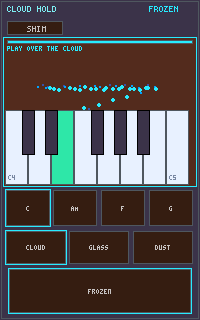
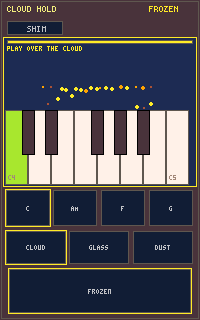
cloudhold: a granular pedal that was not granular
Three things were wrong, each of which made the cart read as broken while
every existing check stayed green.

1. The FREEZE stomp was inaudible. At mix 0.92 the insert had already
   replaced 92% of the dry triad before the stomp, so "the dry chord drops
   away" could not be heard: frozen and never-frozen stayed within 1.3 dB
   for 0.8 s and only parted 1.6 s later, as an absence. The screen flipped
   instantly and the ears heard nothing. Mix is now around 0.5, the stomp
   ducks both legs of the pad and blooms back, and the step at the switch
   went from +0.2 dB to -8.4 dB. The duck has to scale the voice level AND
   the grain mix together: instrument_level is upstream of the insert so it
   cannot touch a frozen cloud at all, and ducking mix alone just trades wet
   for dry against a 1200 ms release, which made the stomp 1.8 dB LOUDER.

2. You could not hear grains, because there were none. Density times grain
   size is the overlap, and above 1 the Hann windows sum back into a
   continuous tone, after which the engine divides by sqrt(overlap) and
   smooths what is left. CLOUD shipped at 32 grains/s x 170 ms = 5.44x, so
   it was a saw pad behind a lowpass by construction. Measured duty cycle
   of the frozen cloud: 94% sounding at the shipped overlap, 13% at 0.18.
   All three materials are now under 1. Scatter and position turn out to be
   nearly inaudible on a held chord (the buffer holds one steady tone, so
[…]

diff --git a/tools/carts/cloudhold.c b/tools/carts/cloudhold.c
@@ -50,6 +50,13 @@ de:meta */
 #define DESIGN_W 200
 #define DESIGN_H 320
 
+// The lead has to sit ON TOP of the room it plays over. It used to peak 6 dB
+// UNDER the frozen cloud (-15.3 vs -9.3 dBFS), so playing the keybed added only
+// about 1 dB to the sum and "play over the cloud" never landed. Both slots stay
+// at UNITY and the balance comes from the one honest knob: once the chord is
+// released the frozen cloud is pure wet, so the grain MIX *is* its volume.
+#define LEAD_LEVEL 1.00f
+
 enum { MAT_CLOUD = 0, MAT_GLASS, MAT_DUST };
 
 typedef struct {
@@ -60,10 +67,54 @@ typedef struct {
 //   CLOUD — mid grains, dense wet wash (the default room)
 //   GLASS — tiny grains, high density, sparkle detune
 //   DUST  — long grains, sparse, wide pitch wander
+//
+// MIX IS THE WHOLE GESTURE, and it used to be wrong. At 0.92 the insert had
+// already replaced 92% of the dry triad BEFORE the stomp, so "the dry chord
+// drops away" was inaudible: measured, frozen and never-frozen stayed within
+// ±1.3 dB for 0.8 s and only parted ~1.6 s later, as an ABSENCE (the un-frozen
+// one decays, this one doesn't). The screen flipped instantly and the ears
+// heard nothing, which reads as broken.
+//
+// Around half the dry chord is genuinely in the room while LIVE, so taking it
+// away IS the event, and the saw edge leaving is as loud a cue as the level
+// step. Mix doubles as the frozen cloud's volume (post-release it is pure wet),
+// which is what seats the lead above it.
+//
+// DENSITY x SIZE IS THE OVERLAP, and the overlap is whether you hear GRAINS at
+// all. Above 1 the Hann windows sum back into a continuous tone and the engine
+// then divides by sqrt(overlap), so it deliberately smooths what is left: at
+// the shipped 32 grains/s x 170 ms = 5.4x this cart WAS a plain saw pad behind
+// a lowpass, which is exactly what it sounded like. Measured spread of the
+// short-window level, filter pinned so only the grains move:
+//     overlap 5.44 (shipped) →  1.7 dB     a drone
+//     overlap 1.68           →  2.3 dB
+//     overlap 1.08           →  8.2 dB     breathing, still continuous
+//     overlap 0.78           → 13.0 dB     pointillist, you hear each grain
+// CLOUD sits at 1.08 because it still has to be a pad you play over; GLASS and
+// DUST go under 1 because sparkle and smear ARE the separate grains.
+//
+// It also matters that the source is a SUSTAINED chord: scatter and position
+// read a 3 s buffer holding the same steady tone, so they move phase and not
+// texture. On a drone the recipe's audible axes are overlap and spread — and
+// spread is the ONE the engine clamps, to 0..1 (a semitone), so 0.9 is as wide
+// as a grain cloud here can be.
+//
+// ⚠ CALIBRATION BUILD, DELIBERATELY OVER THE TOP. The maker could still not hear
+// grains at overlap 1.08, so these are set where the grains are separate EVENTS
+// you cannot miss — measured duty cycle (how much of the time anything is
+// sounding at all, frozen, 100% wet):
+//     overlap 5.44 (shipped) → 94%   a continuous drone
+//     overlap 1.08           → 80%
+//     overlap 0.54           → 40%
+//     overlap 0.18           → 13%   pointillist
+//     overlap 0.09           →  8%   droplets
+// Mix is up at 0.85 too, so the cloud is what you hear rather than the chord.
+// That trades away most of the FREEZE step this same cart just gained, so once
+// the grain rate is settled by ear, mix comes back down to ~0.5.
 static const Material MAT[NMAT] = {
-    { 170.0f, 32.0f, 0.86f, 0.28f, 0.36f, 0.92f, 0.16f },
-    {  22.0f, 72.0f, 0.78f, 0.62f, 0.28f, 0.90f, 0.48f },
-    { 460.0f,  5.0f, 0.32f, 0.82f, 0.18f, 0.88f, 0.70f },
+    {  60.0f,  3.0f, 0.86f, 0.80f, 0.30f, 0.85f, 1.00f },
+    {  25.0f,  6.0f, 0.78f, 0.95f, 0.25f, 0.85f, 1.00f },
+    { 400.0f,  1.2f, 0.32f, 0.90f, 0.18f, 0.85f, 0.80f },
 };
 static const char *MNAME[NMAT] = { "CLOUD", "GLASS", "DUST" };
 
@@ -87,6 +138,10 @@ static int   sounding = -1;     // dry chord currently on, or -1
 static int   latch    = -1;     // tap-to-latch (one thumb)
 static int   cloud_i  = 0;      // last chord that fed the tank (the frozen identity)
 static int   a_frozen = -1, a_lift = -1, a_mat = -1;
+static float stomp_t  = -1.0f;  // seconds since the last stomp, <0 = idle
+static float duck     = 1.0f;   // stomp transient: scales BOTH legs of the pad
+static float a_mix    = -1.0f;
+static float a_pad_lv = -1.0f;
 
 static FaceZone ZONES[] = {
     { FACE_BAND, EDGE_TOP,    0.11f, "nav"    },
@@ -122,18 +177,49 @@ static void set_frozen(int on) {
     frozen = on;
     instrument_grains_freeze(SL_PAD, on ? 1 : 0);
     if (on) release_pad();
+    stomp_t = 0.0f;   // the stomp gets a transient of its own (ride_stomp)
+}
+
+// A real pedal makes a noise when you step on it. Freezing is a state change and
+// not an attack, so the pad DUCKS on the switch and blooms back: that is what
+// turns "a label changed" into "I did that".
+//
+// It has to duck BOTH legs, and neither one alone works — that cost two rounds:
+//   instrument_level scales the VOICE contribution, upstream of the insert, so
+//     it cannot touch a frozen cloud at all (the tank is looping, not being fed).
+//   the grain MIX is the cloud's volume once the chord is gone, but on its own a
+//     duck just trades wet for DRY, and the pad's release is 1200 ms, so the
+//     triad is still right there — measured, ducking mix alone made the stomp
+//     1.8 dB LOUDER.
+// Scaled together they take the dry leg and the wet leg down at once, which is
+// the gap you hear. fx_set_grains only assigns fields once the tank exists and
+// both writes are change-gated, so this stays set-and-hold safe.
+static void ride_stomp(float dt) {
+    duck = 1.0f;
+    if (stomp_t >= 0.0f) {
+        stomp_t += dt;
+        if      (stomp_t < 0.07f) duck = 1.00f - 0.88f * (stomp_t / 0.07f);
+        else if (stomp_t < 0.42f) duck = 0.12f + 0.88f * ((stomp_t - 0.07f) / 0.35f);
+        else                      stomp_t = -1.0f;
+    }
+    if (fabsf(duck - a_pad_lv) > 0.003f) { instrument_level(SL_PAD, duck); a_pad_lv = duck; }
 }
 
 static void apply_voice(void) {
+    const Material *m = &MAT[material];
     if (a_mat != material) {
-        const Material *m = &MAT[material];
-        instrument_grains(SL_PAD, m->grain_ms, m->density, m->position,
-                          m->scatter, m->feedback, m->mix);
         // slight pad colour into the next capture (does not recapture a freeze)
         instrument_filter(SL_PAD, FILTER_LOW,
             material == MAT_GLASS ? 4200 : material == MAT_DUST ? 1200 : 2400, 1);
         a_mat  = material;
         a_lift = -1;   // re-apply pitch so the new spread lands
+        a_mix  = -1.0f;   // and re-push the recipe below
+    }
+    float mix = m->mix * duck;
+    if (fabsf(mix - a_mix) > 0.003f) {
+        instrument_grains(SL_PAD, m->grain_ms, m->density, m->position,
+                          m->scatter, m->feedback, mix);
+        a_mix = mix;
     }
     if (a_frozen != frozen) {
         instrument_grains_freeze(SL_PAD, frozen ? 1 : 0);
@@ -201,8 +287,9 @@ void init(void) {
     instrument(SL_PAD,  INSTR_SAW,  50, 280, 8, 1200);
     instrument_filter(SL_PAD, FILTER_LOW, 2400, 1);
     instrument(SL_LEAD, INSTR_SAW,   6,  90, 5, 220);
-    instrument_level(SL_LEAD, 0.75f);
+    instrument_level(SL_LEAD, LEAD_LEVEL);
     keybed_config(SL_LEAD, 4, 8);   // one octave of whites — fat enough on a phone
+    keybed_velocity(7);             // the lead plays OVER the room, so it leads
     apply_voice();                  // CLOUD recipe + pitch
 }
 
@@ -233,11 +320,12 @@ void update(void) {
     }
     if (!frozen && want >= 0) cloud_i = want;
 
+    float dt = 1.0f / 60.0f;
+    ride_stomp(dt);   // before apply_voice: it sets the duck the recipe is scaled by
     apply_voice();
 
     // visual swarm — denser while a chord is feeding or the cloud is locked;
     // GLASS sprays faster, DUST hangs fewer specks
-    float dt = 1.0f / 60.0f;
     float dens = (frozen || sounding >= 0) ? 22.0f : 4.0f;
     if (material == MAT_GLASS) dens *= 1.6f;
     if (material == MAT_DUST)  dens *= 0.55f;
